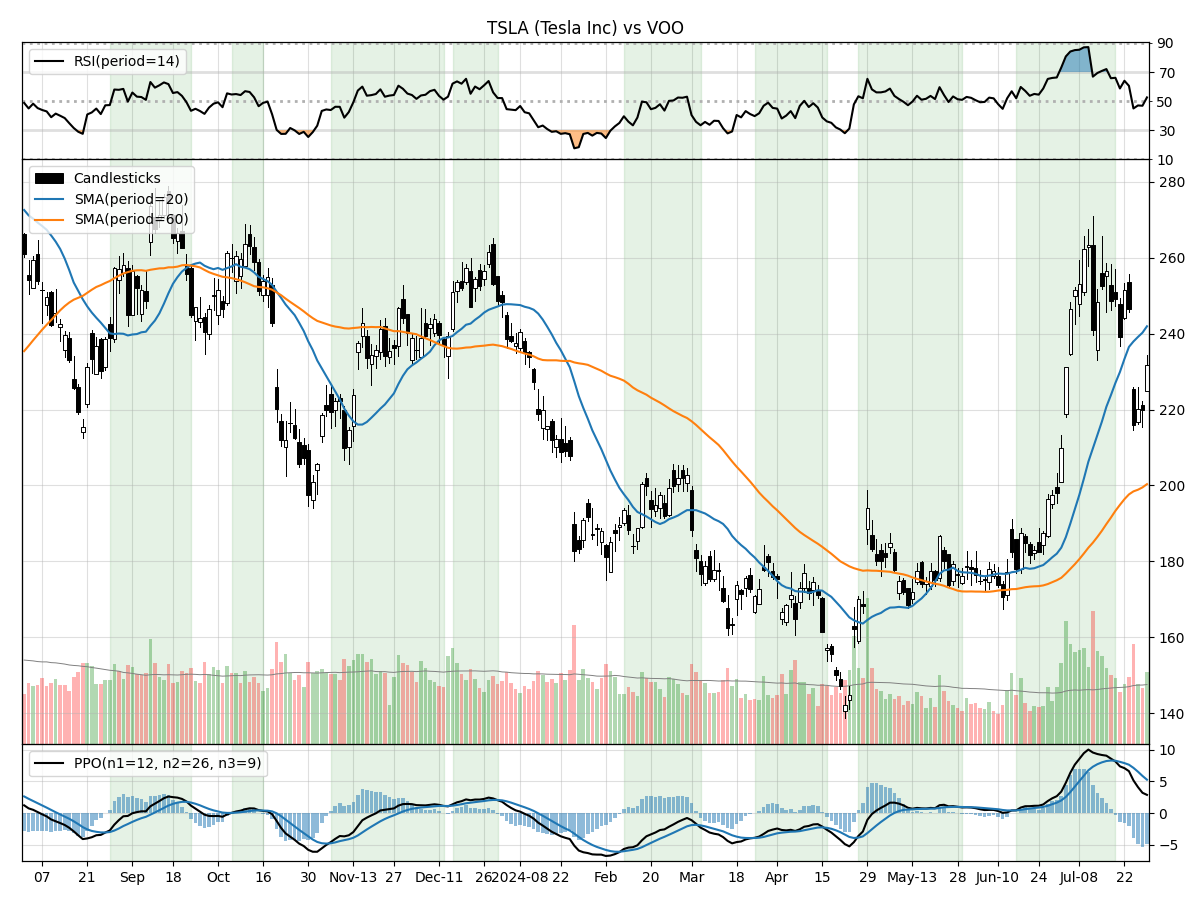
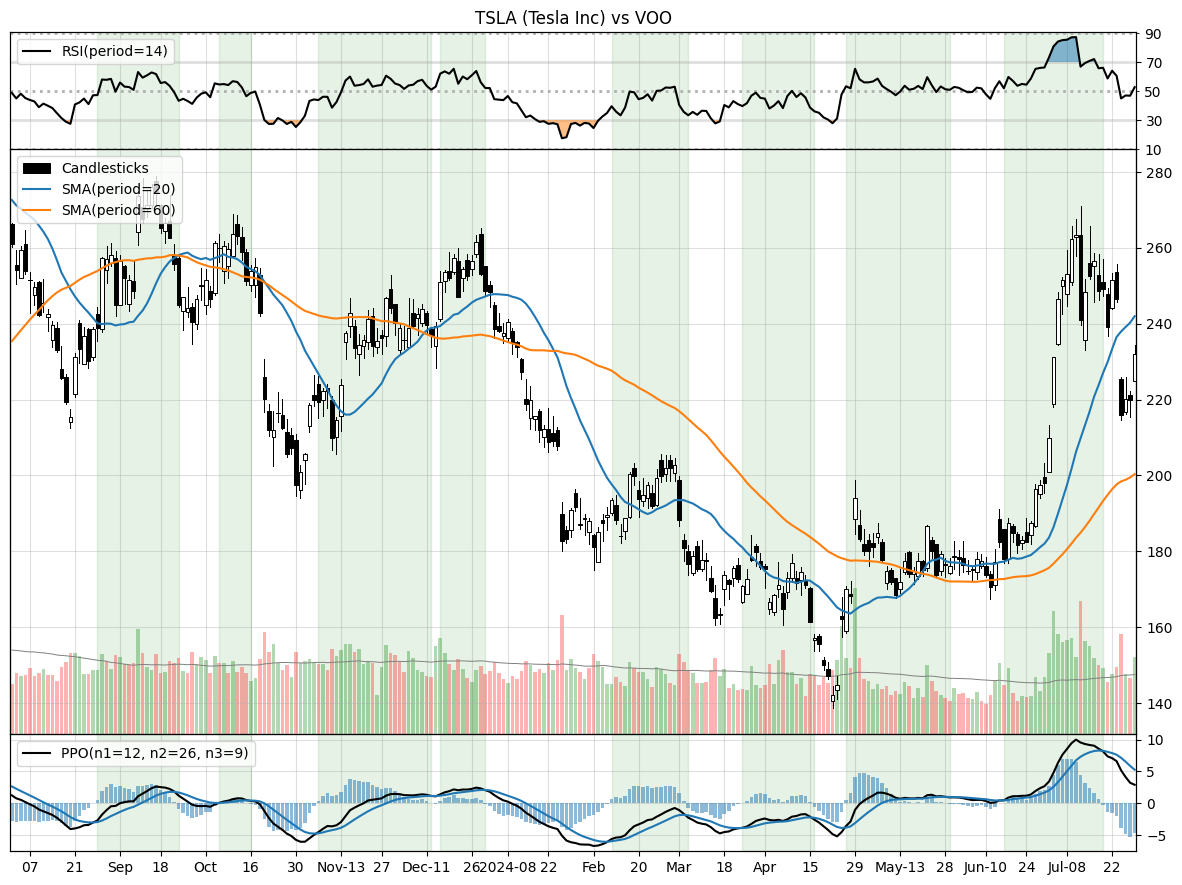
Auto-commit moved files

diff --git a/my-flask-app/Results_plot_mpl.py b/my-flask-app/Results_plot_mpl.py
@@ -27,107 +27,75 @@ def convert_file_path_for_saving(file_path):
 def convert_file_path_for_reading(file_path):
   return file_path.replace('-', '/')
 
+import os
+import requests
+import pandas as pd
+import numpy as np
+import FinanceDataReader as fdr
+from datetime import datetime
+from get_ticker import get_ticker_name
+from github_operations import save_csv_to_github, save_image_to_github
+import matplotlib.pyplot as plt
+from mplchart.chart import Chart
+from mplchart.primitives import Candlesticks, Volume
+from mplchart.indicators import SMA, PPO, RSI
+
 def save_figure(fig, file_path):
-  file_path = convert_file_path_for_saving(file_path)
-  fig.savefig(file_path)
-  plt.close(fig)  # 닫지 않으면 메모리를 계속 차지할 수 있음
+    file_path = file_path.replace('/', '-')
+    fig.savefig(file_path, bbox_inches='tight')
+    plt.close(fig)  # 닫지 않으면 메모리를 계속 차지할 수 있음
 
-def get_tradingview_analysis(ticker):
-  # tv_symbol = f"{ticker.upper()}/USD"  # 트레이딩뷰에서 사용하는 심볼 형식
-  market = get_ticker_market(ticker, ticker_path) # file_path='stock_market.csv'
-  if market == 'KRX':
-    screener = "korea"
-  elif market == 'UPBIT' or market == 'BINANCE' :   
-    screener = "crypto"
-  else:   
-    screener = "america"
-
-  print(market)
-
-  tv_handler = TA_Handler(
-      symbol = ticker,
-      exchange = market,  # 해당 거래소로 설정
-      screener = screener,  # 예: "america" 또는 "crypto"
-      interval = Interval.INTERVAL_1_DAY,
-  )
-  tv_analysis = tv_handler.get_analysis().summary
-  return tv_analysis
-
-def plot_results_mpl(ticker,start_date, end_date):
-    print(str(datetime.now()) + " : " + ticker + " : " + start_date + " ~ " + end_date)
-
-    # ticker = 'AAPL'
-    prices = fdr.DataReader(ticker,start_date, end_date)
-    # print(prices)
+def plot_results_mpl(ticker, start_date, end_date):
+    prices = fdr.DataReader(ticker, start_date, end_date)
     max_bars = 250
     prices.dropna(inplace=True)
 
-    # Calculate SMA 20 and SMA 60
     SMA20 = prices['Close'].rolling(window=20).mean()
-    # print(SMA20)
     SMA60 = prices['Close'].rolling(window=60).mean()
 
-    # Define window spans for calculations
-    short_window = 12
-    long_window = 26
-    signal_window = 9
-
-    # 각 행에 대한 단기 및 장기 EMA 계산
-    short_ema = prices['Close'].ewm(span=short_window, adjust=False).mean()
-    long_ema = prices['Close'].ewm(span=long_window, adjust=False).mean()
-    # 각 행에 대한 PPO 계산
+    short_ema = prices['Close'].ewm(span=12, adjust=False).mean()
+    long_ema = prices['Close'].ewm(span=26, adjust=False).mean()
     ppo = ((short_ema - long_ema) / long_ema) * 100
-    # 각 행에 대한 PPO 시그널 계산
-    ppo_signal = ppo.ewm(span=signal_window, adjust=False).mean()
-    # 히스토그램 계산
+    ppo_signal = ppo.ewm(span=9, adjust=False).mean()
     ppo_histogram = ppo - ppo_signal
 
-    # Calculate PPO Histogram with error handling
-    try:
-        ppo_histogram = ppo - ppo_signal
-    except TypeError as e:
-        print(f"Error calculating PPO Histogram: {e}")
-        ppo_histogram = pd.Series(np.zeros(len(ppo)), index=ppo.index)  # Fallback to a series of zeros
-
     indicators = [
-      Candlesticks(), SMA(20), SMA(60), Volume(),
-      RSI(), PPO(), TradeSpan('ppohist>0')
+        Candlesticks(), SMA(20), SMA(60), Volume(),
+        RSI(), PPO(), TradeSpan('ppohist>0')
     ]
 
-    # 티커 이름 가져오기
     name = get_ticker_name(ticker)
-    
-    # 차트 제목을 티커 이름과 함께 설정
     chart = Chart(title=f'{ticker} ({name}) vs VOO', max_bars=max_bars)
     chart.plot(prices, indicators)
 
     fig = chart.figure
 
-    # 그래프를 PNG 파일로 저장
-    save_figure(fig, 'result_mpl_{}.png'.format(ticker))
-    
-    # Discord로 이미지 전송
-    import requests
+    image_filename = f'result_mpl_{ticker}.png'
+    save_figure(fig, image_filename)
 
-    # Discord로 이미지 전송
+    # Discord로 이미지 및 메시지 전송
     DISCORD_WEBHOOK_URL = os.getenv('DISCORD_WEBHOOK_URL')
-
-    # 결과 메시지 전송
-    message = f"Stock: {ticker} ({name})\n" \
-              f"Close: {prices['Close'].iloc[-1]:,.2f}\n" \
-              f"SMA 20: {SMA20.iloc[-1]:,.2f}\n" \
-              f"SMA 60: {SMA60.iloc[-1]:,.2f}\n" \
-              f"PPO Histogram: {ppo_histogram.iloc[-1]:,.2f}\n" \
-              # f"트레이딩뷰 BUY: {tv_analysis['BUY']}, NEUTRAL: {tv_analysis['NEUTRAL']}, SELL: {tv_analysis['SELL']}"
+    message = (f"Stock: {ticker} ({name})\n"
+               f"Close: {prices['Close'].iloc[-1]:,.2f}\n"
+               f"SMA 20: {SMA20.iloc[-1]:,.2f}\n"
+               f"SMA 60: {SMA60.iloc[-1]:,.2f}\n"
+               f"PPO Histogram: {ppo_histogram.iloc[-1]:,.2f}\n")
+    
     response = requests.post(DISCORD_WEBHOOK_URL, data={'content': message})
     if response.status_code != 204:
-       print('Discord 메시지 전송 실패')
+        print('Discord 메시지 전송 실패')
     else:
-       print('Discord 메시지 전송 성공')
+        print('Discord 메시지 전송 성공')
 
     # 이미지 파일 전송
-    files = {'file': open('result_mpl_{}.png'.format(ticker), 'rb')}
-    response = requests.post(DISCORD_WEBHOOK_URL, files=files)
+    with open(image_filename, 'rb') as image_file:
+        response = requests.post(DISCORD_WEBHOOK_URL, files={'file': image_file})
+        if response.status_code != 204:
+            print(f'Graph 전송 실패: {ticker}')
+        else:
+            print(f'Graph 전송 성공: {ticker}')
+
+
 
 
 if __name__ == "__main__":
